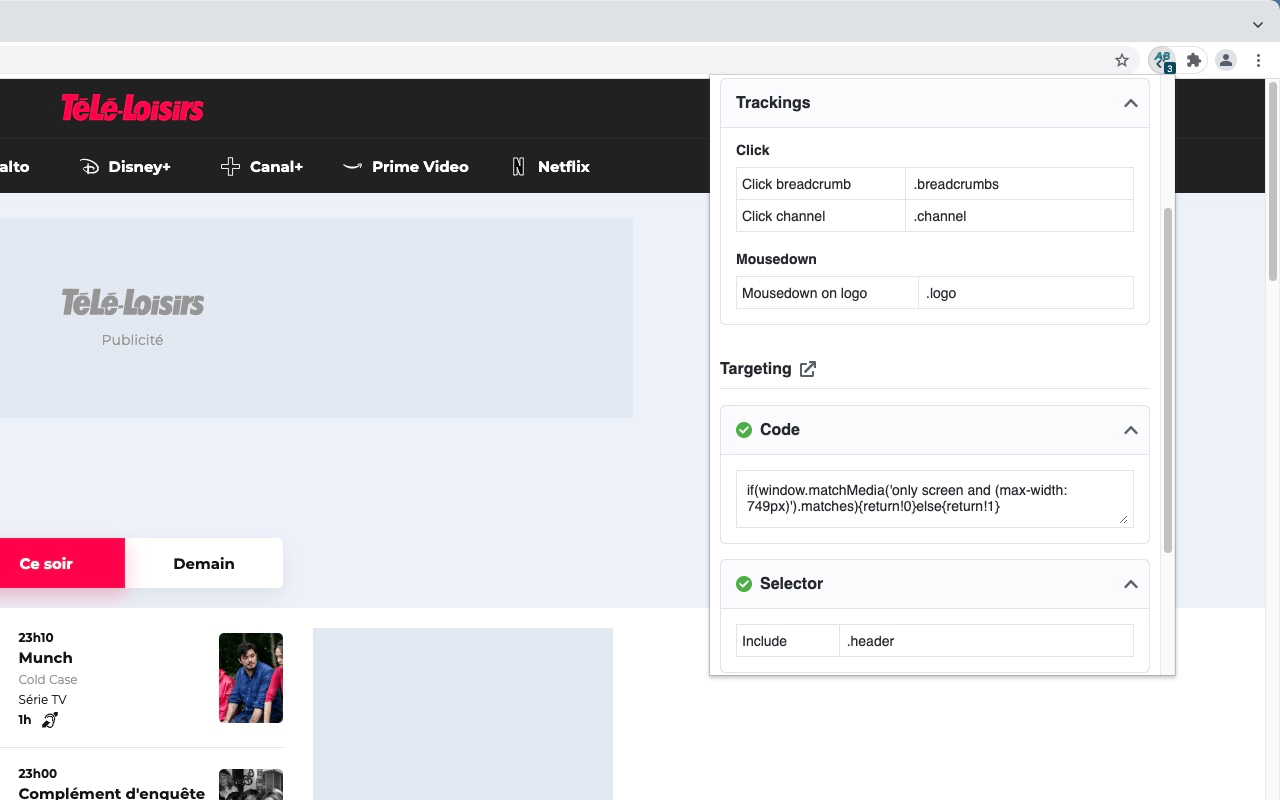
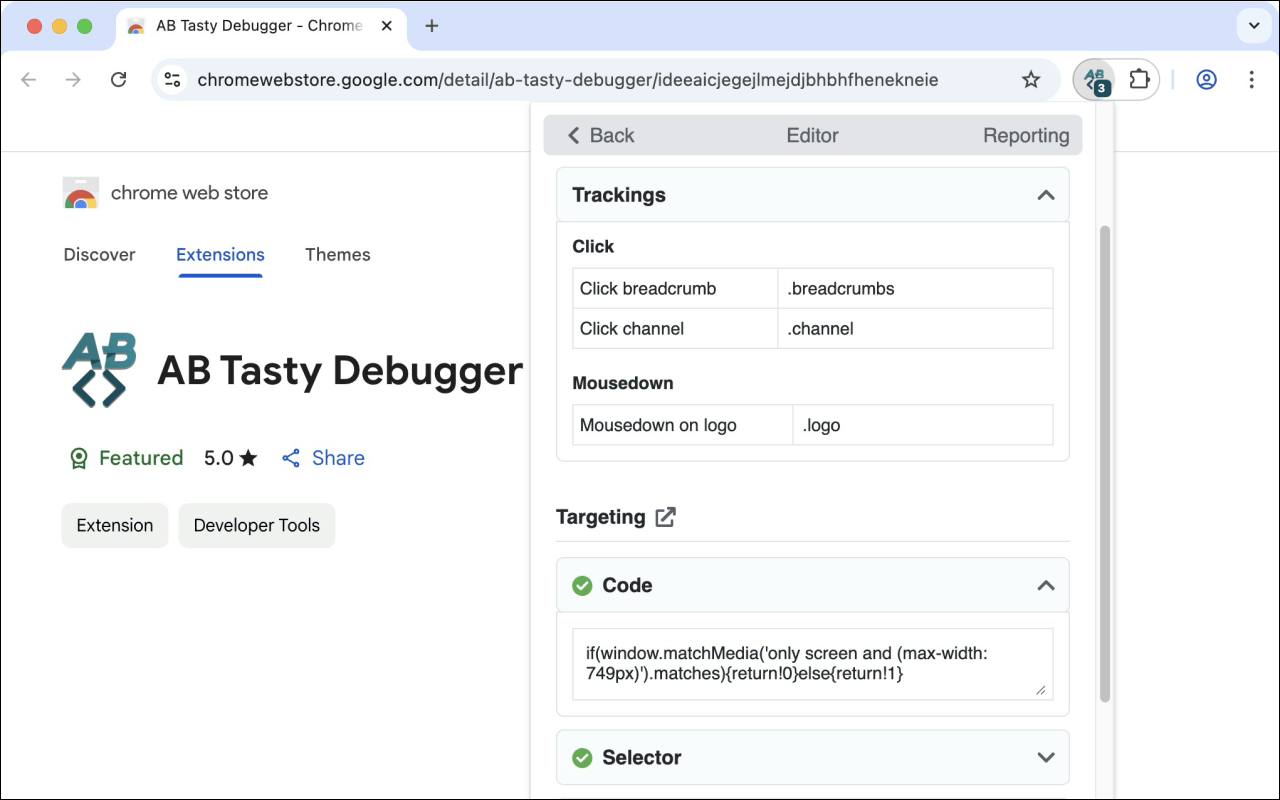
Update capture Bump release

diff --git a/CHANGELOG.md b/CHANGELOG.md
@@ -1,5 +1,11 @@
 # CHANGELOG
 
+## 1.5.0
+
+### Updates
+
+-Design updates ([#40](https://github.com/yoriiis/abtasty-debugger/pull/40))
+
 ## 1.4.0
 
 ### Updates
